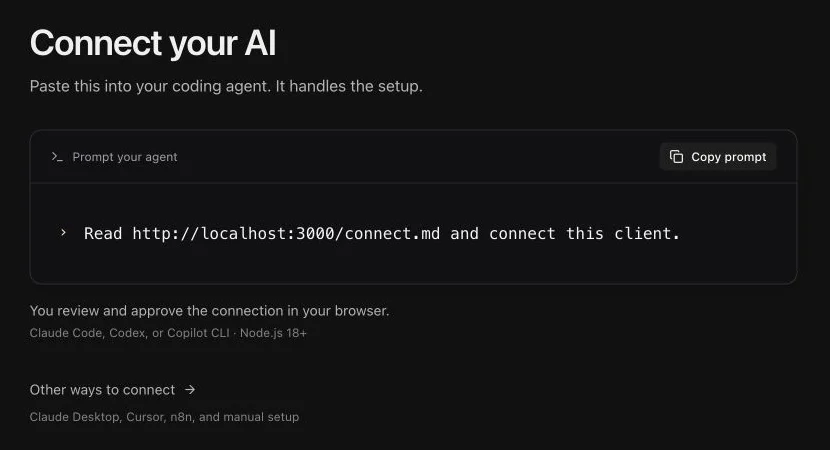
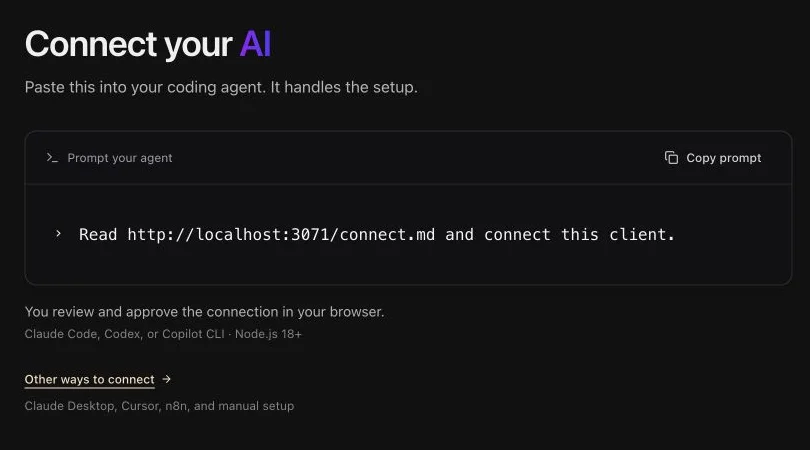
fix(connection): keep manual setup temporary and refine its link

diff --git a/platform/frontend/src/app/connection/page.test.tsx b/platform/frontend/src/app/connection/page.test.tsx
@@ -29,7 +29,9 @@ describe("ConnectionPage", () => {
   beforeEach(() => {
     vi.clearAllMocks();
     vi.mocked(useSearchParams).mockReturnValue(
-      new URLSearchParams("mode=manual") as ReturnType<typeof useSearchParams>,
+      new URLSearchParams("clientId=claude-code") as ReturnType<
+        typeof useSearchParams
+      >,
     );
     refetchOrganizationMock.mockResolvedValue({});
     vi.mocked(useDefaultMcpGateway).mockReturnValue({
@@ -51,9 +53,34 @@ describe("ConnectionPage", () => {
     render(<ConnectionPage />);
     expect(screen.getByRole("button", { name: "Copy prompt" })).toBeVisible();
     expect(
-      screen.getByRole("link", { name: "Other ways to connect" }),
-    ).toHaveAttribute("href", "/connection?mode=manual");
+      screen.getByRole("button", { name: "Other ways to connect" }),
+    ).toBeVisible();
     expect(connectionFlowMock).not.toHaveBeenCalled();
+  });
+
+  it("returns to the prompt after remounting a temporary manual setup", () => {
+    vi.mocked(useSearchParams).mockReturnValue(
+      new URLSearchParams() as ReturnType<typeof useSearchParams>,
+    );
+    vi.mocked(useOrganization).mockReturnValue({
+      data: {},
+      isFetchedAfterMount: true,
+      isFetching: false,
+      isError: false,
+      refetch: refetchOrganizationMock,
+    } as unknown as ReturnType<typeof useOrganization>);
+    const view = render(<ConnectionPage />);
+    fireEvent.click(
+      screen.getByRole("button", { name: "Other ways to connect" }),
+    );
+    expect(screen.queryByRole("button", { name: "Copy prompt" })).toBeNull();
+    expect(
+      screen.queryByRole("link", { name: "Connect with your AI" }),
+    ).toBeNull();
+    expect(connectionFlowMock).toHaveBeenCalled();
+    view.unmount();
+    render(<ConnectionPage />);
+    expect(screen.getByRole("button", { name: "Copy prompt" })).toBeVisible();
   });
 
   it.each([

diff --git a/platform/frontend/src/app/connection/page.tsx b/platform/frontend/src/app/connection/page.tsx
@@ -1,8 +1,7 @@
 "use client";
 
-import Link from "next/link";
 import { useSearchParams } from "next/navigation";
-import { useEffect } from "react";
+import { useEffect, useState } from "react";
 import { LoadingState } from "@/components/loading";
 import { PageLayout } from "@/components/page-layout";
 import { QueryLoadError } from "@/components/query-load-error";
@@ -16,6 +15,7 @@ import { getConnectableProviders } from "./connection-flow.utils";
 
 export default function ConnectionPage() {
   const searchParams = useSearchParams();
+  const [showManualSetup, setShowManualSetup] = useState(false);
   const isApproval = !!searchParams.get("connectRequest");
   const requestedClient = CONNECT_CLIENTS.find(
     (client) => client.id === searchParams.get("clientId"),
@@ -56,12 +56,8 @@ export default function ConnectionPage() {
     organization?.connectionDefaultMcpGatewayId ?? null;
   const adminDefaultClientId = organization?.connectionDefaultClientId ?? null;
 
-  if (
-    !isApproval &&
-    !searchParams.get("clientId") &&
-    searchParams.get("mode") !== "manual"
-  ) {
-    return <ConnectWithAi />;
+  if (!isApproval && !searchParams.get("clientId") && !showManualSetup) {
+    return <ConnectWithAi onManualSetup={() => setShowManualSetup(true)} />;
   }
 
   return (
@@ -88,16 +84,6 @@ export default function ConnectionPage() {
         isApproval
           ? `Connect ${requestedClient?.label ?? "your client"}`
           : "Connection"
-      }
-      actionButton={
-        !isApproval ? (
-          <Link
-            href="/connection"
-            className="text-sm text-muted-foreground hover:text-foreground"
-          >
-            Connect with your AI
-          </Link>
-        ) : undefined
       }
       maxWidth="wizard"
     >

diff --git a/platform/frontend/src/app/connection/connect-with-ai.tsx b/platform/frontend/src/app/connection/connect-with-ai.tsx
@@ -1,13 +1,16 @@
 "use client";
 
 import { ArrowRight, Check, Copy, Terminal } from "lucide-react";
-import Link from "next/link";
 import { useEffect, useState } from "react";
 import { toast } from "sonner";
 import { Button } from "@/components/ui/button";
 import { copyToClipboard } from "@/lib/clipboard";
 
-export function ConnectWithAi() {
+export function ConnectWithAi({
+  onManualSetup,
+}: {
+  onManualSetup: () => void;
+}) {
   const [origin, setOrigin] = useState("");
   const [copied, setCopied] = useState(false);
   useEffect(() => setOrigin(window.location.origin), []);
@@ -81,14 +84,15 @@ export function ConnectWithAi() {
         <p className="mt-1 text-xs text-muted-foreground/70">
           Claude Code, Codex, or Copilot CLI · Node.js 18+
         </p>
-        <div className="mt-9">
-          <Link
-            href="/connection?mode=manual"
-            className="group inline-flex items-center gap-2 text-sm text-muted-foreground transition-colors hover:text-foreground"
+        <div className="mt-6">
+          <Button
+            variant="link"
+            onClick={onManualSetup}
+            className="h-auto gap-1.5 p-0 text-xs text-primary underline underline-offset-4 hover:text-primary/80 has-[>svg]:px-0"
           >
             <span>Other ways to connect</span>
-            <ArrowRight className="size-3.5" />
-          </Link>
+            <ArrowRight className="size-3" />
+          </Button>
           <p className="mt-2 text-xs text-muted-foreground/70">
             Claude Desktop, Cursor, n8n, and manual setup
           </p>

diff --git a/platform/frontend/src/app/connection/connect-with-ai.test.tsx b/platform/frontend/src/app/connection/connect-with-ai.test.tsx
@@ -7,13 +7,15 @@ vi.mock("sonner");
 
 test("copies the current deployment prompt and offers the manual fallback", async () => {
   const user = userEvent.setup();
-  render(<ConnectWithAi />);
+  const onManualSetup = vi.fn();
+  render(<ConnectWithAi onManualSetup={onManualSetup} />);
   const prompt = `Read ${window.location.origin}/connect.md and connect this client.`;
   expect(screen.getByText(prompt)).toBeVisible();
   await user.click(screen.getByRole("button", { name: "Copy prompt" }));
   expect(await navigator.clipboard.readText()).toBe(prompt);
   expect(screen.getByRole("button", { name: "Copied" })).toBeVisible();
-  expect(
-    screen.getByRole("link", { name: "Other ways to connect" }),
-  ).toHaveAttribute("href", "/connection?mode=manual");
+  await user.click(
+    screen.getByRole("button", { name: "Other ways to connect" }),
+  );
+  expect(onManualSetup).toHaveBeenCalledOnce();
 });

diff --git a/platform/frontend/src/app/connection/connection-flow.tsx b/platform/frontend/src/app/connection/connection-flow.tsx
@@ -100,7 +100,12 @@ export function ConnectionFlow({
   const selectClient = (id: string) => {
     setClientId(id);
     // Providers vary per client, so clear any bookmarked provider on switch.
-    updateUrlParams({ clientId: id, providerId: null });
+    // Keep ordinary manual setup transient so refresh returns to the prompt.
+    // Explicit client links retain their bookmarkable selection.
+    updateUrlParams({
+      ...(urlClientId ? { clientId: id } : {}),
+      providerId: null,
+    });
   };
 
   const [selectedMcpId, setSelectedMcpId] = useState<string | null>(null);

diff --git a/docs/pages/platform-connection.md b/docs/pages/platform-connection.md
@@ -3,7 +3,7 @@ title: Connect Your Agents
 category: Archestra Platform
 order: 8
 description: How the one-command setup script connects your AI tools, and how to audit or undo it
-lastUpdated: 2026-09-08
+lastUpdated: 2026-09-09
 ---
 
 <!-- Renaming/deleting this file? Add a redirect in docs/redirects.json. -->
@@ -14,6 +14,7 @@ The Connection page provides a prompt for your coding agent.
 Your agent prepares the connection; you review and approve it in your browser.
 
 **Other ways to connect** opens manual setup for Claude Desktop, Cursor, n8n, and other clients.
+Refreshing returns to the prompt.
 Client-specific links still open their setup instructions directly.
 
 On macOS and Linux the command is `curl -fsSL <url> | bash`. On Windows it is `irm <url> | iex`. Running it configures the client in place. Plugins declare whether they support macOS/Linux, Windows, or both; the review includes only plugins compatible with the selected operating system and names incompatible plugins that were skipped.
